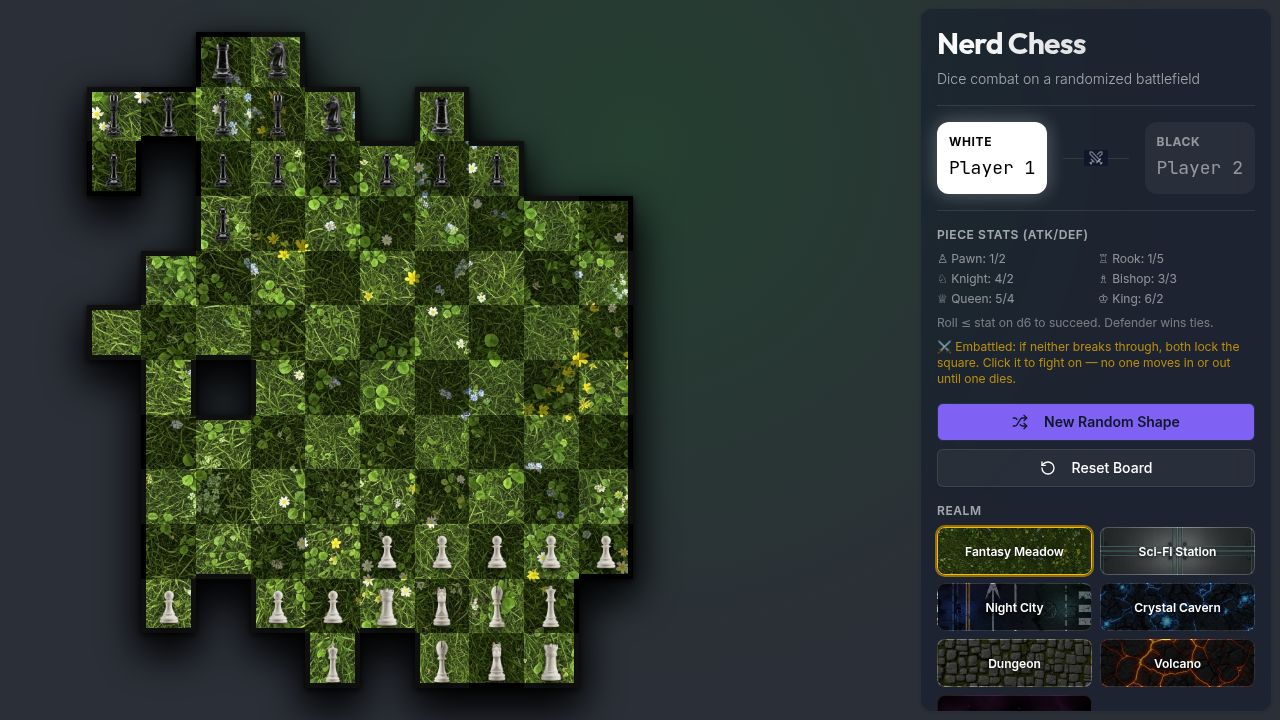
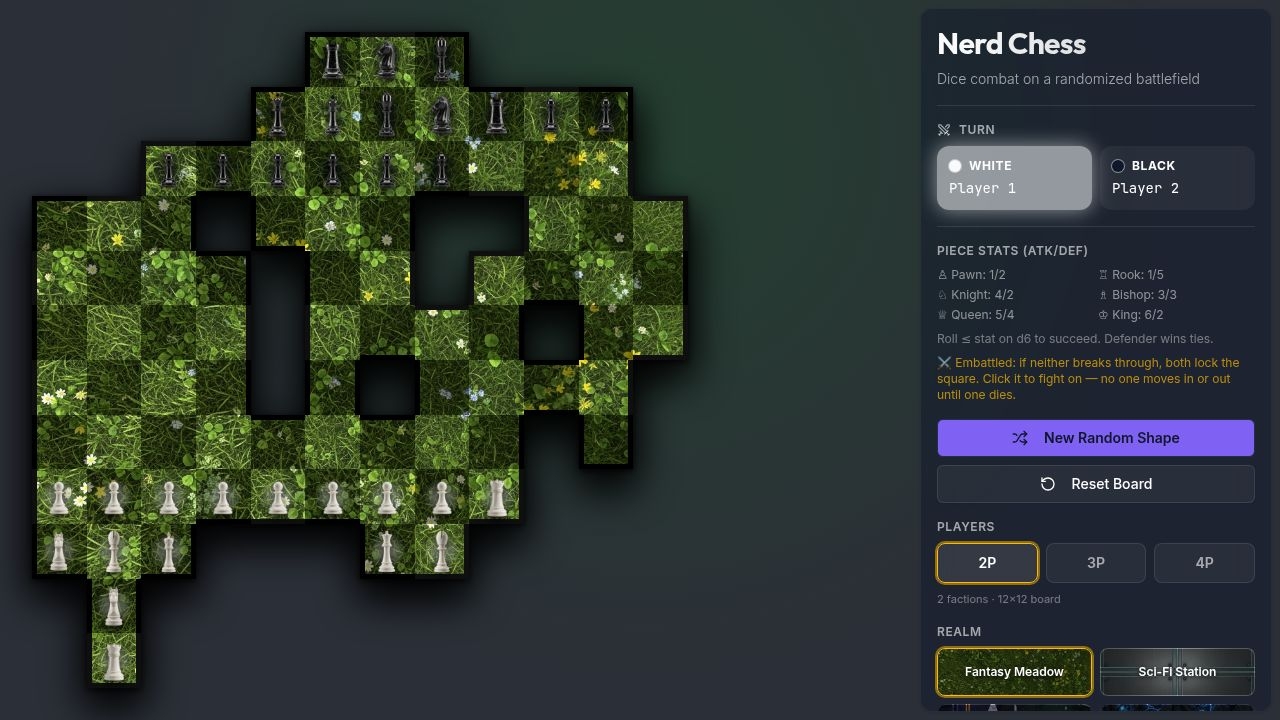
Add sound effects to Nerd Chess
Task #1: Add audio feedback so each key game event plays a distinct sound.

Implementation:
- New `client/src/lib/sounds.ts`: a lightweight Web Audio engine that
  synthesizes five short, distinct tones on demand (move, attack, embattled,
  death, win). No audio assets to load. Each play spins up fresh nodes so
  rapid/overlapping triggers never cut each other off. AudioContext is created
  lazily and resumed on first gesture. Mute state persists in localStorage
  under `nerd-chess-muted` (separate key from game state).
- Wired events in `client/src/pages/home.tsx`:
  - move: empty-square drop (handleDrop)
  - attack: combat start on both paths (handleDrop enemy branch +
    handleEmbattledClick), fired at start before the ~2s resolution delay
  - embattled / death: at combat resolution in applyCombatResult
    (embattled outcome -> embattled sound; capture or repelled_destroyed ->
    death sound)
  - win: at resolution when a winner is declared
- Mute toggle: speaker icon button in the legend panel header
  (data-testid button-mute-toggle), defaults to sound on, persists across
  reloads. Unmuting plays a brief cue.

Notes/decisions:
- Chose browser-synthesized tones over generated audio files for zero load
  cost (explicitly allowed by the task).
- No changes to game rules, combat math, or board generation.
- Typecheck passes; verified mute button renders in preview.

Replit-Task-Id: 98fa8c79-871c-4ca7-b825-2bc381ba8818

diff --git a/client/src/lib/sounds.ts b/client/src/lib/sounds.ts
@@ -1,0 +1,146 @@
+// Lightweight Web Audio sound engine for Nerd Chess.
+// Synthesizes short, distinct tones on demand — no audio assets to load.
+// Each play spins up fresh oscillator/gain nodes, so rapid repeated triggers
+// and overlapping events never cut each other off.
+
+export type SoundName = 'move' | 'attack' | 'embattled' | 'death' | 'win';
+
+const MUTE_KEY = 'nerd-chess-muted';
+
+let ctx: AudioContext | null = null;
+let muted = false;
+
+try {
+  muted = localStorage.getItem(MUTE_KEY) === 'true';
+} catch {
+  // ignore storage failures
+}
+
+function getCtx(): AudioContext | null {
+  if (typeof window === 'undefined') return null;
+  const AC = window.AudioContext || (window as any).webkitAudioContext;
+  if (!AC) return null;
+  if (!ctx) ctx = new AC();
+  // Browsers start the context suspended until a user gesture; resume on demand.
+  if (ctx.state === 'suspended') ctx.resume().catch(() => {});
+  return ctx;
+}
+
+export function isMuted(): boolean {
+  return muted;
+}
+
+export function setMuted(value: boolean): void {
+  muted = value;
+  try {
+    localStorage.setItem(MUTE_KEY, value ? 'true' : 'false');
+  } catch {
+    // ignore storage failures
+  }
+}
+
+export function toggleMuted(): boolean {
+  setMuted(!muted);
+  return muted;
+}
+
+// A single tone with an attack/decay envelope.
+interface Tone {
+  freq: number;        // starting frequency (Hz)
+  endFreq?: number;    // optional glide target
+  type?: OscillatorType;
+  start: number;       // seconds, relative to play time
+  duration: number;    // seconds
+  gain?: number;       // peak gain (0-1)
+}
+
+function playTone(audio: AudioContext, t: Tone): void {
+  const osc = audio.createOscillator();
+  const env = audio.createGain();
+  const now = audio.currentTime + t.start;
+  const peak = t.gain ?? 0.2;
+
+  osc.type = t.type ?? 'sine';
+  osc.frequency.setValueAtTime(t.freq, now);
+  if (t.endFreq != null) {
+    osc.frequency.exponentialRampToValueAtTime(Math.max(1, t.endFreq), now + t.duration);
+  }
+
+  env.gain.setValueAtTime(0.0001, now);
+  env.gain.exponentialRampToValueAtTime(peak, now + 0.01);
+  env.gain.exponentialRampToValueAtTime(0.0001, now + t.duration);
+
+  osc.connect(env);
+  env.connect(audio.destination);
+  osc.start(now);
+  osc.stop(now + t.duration + 0.02);
+}
+
+// A short burst of filtered noise — used for the "attack" swing.
+function playNoise(audio: AudioContext, start: number, duration: number, gain: number): void {
+  const now = audio.currentTime + start;
+  const frames = Math.floor(audio.sampleRate * duration);
+  const buffer = audio.createBuffer(1, frames, audio.sampleRate);
+  const data = buffer.getChannelData(0);
+  for (let i = 0; i < frames; i++) data[i] = Math.random() * 2 - 1;
+
+  const src = audio.createBufferSource();
+  src.buffer = buffer;
+
+  const filter = audio.createBiquadFilter();
+  filter.type = 'bandpass';
+  filter.frequency.setValueAtTime(1800, now);
+  filter.frequency.exponentialRampToValueAtTime(600, now + duration);
+  filter.Q.value = 0.8;
+
+  const env = audio.createGain();
+  env.gain.setValueAtTime(0.0001, now);
+  env.gain.exponentialRampToValueAtTime(gain, now + 0.008);
+  env.gain.exponentialRampToValueAtTime(0.0001, now + duration);
+
+  src.connect(filter);
+  filter.connect(env);
+  env.connect(audio.destination);
+  src.start(now);
+  src.stop(now + duration + 0.02);
+}
+
+const RECIPES: Record<SoundName, (audio: AudioContext) => void> = {
+  // Soft, quick wooden blip — a piece settling onto a square.
+  move: (audio) => {
+    playTone(audio, { freq: 440, endFreq: 660, type: 'triangle', start: 0, duration: 0.12, gain: 0.18 });
+  },
+  // Metallic swing: noise sweep plus a sharp ring.
+  attack: (audio) => {
+    playNoise(audio, 0, 0.18, 0.22);
+    playTone(audio, { freq: 880, endFreq: 320, type: 'sawtooth', start: 0, duration: 0.2, gain: 0.16 });
+  },
+  // Tense, unresolved two-note clash — neither side breaks through.
+  embattled: (audio) => {
+    playTone(audio, { freq: 330, type: 'square', start: 0, duration: 0.16, gain: 0.13 });
+    playTone(audio, { freq: 349, type: 'square', start: 0.04, duration: 0.22, gain: 0.13 });
+  },
+  // Descending, hollow fall — a piece is destroyed.
+  death: (audio) => {
+    playTone(audio, { freq: 400, endFreq: 90, type: 'sawtooth', start: 0, duration: 0.4, gain: 0.22 });
+    playTone(audio, { freq: 200, endFreq: 60, type: 'sine', start: 0.02, duration: 0.45, gain: 0.18 });
+  },
+  // Bright rising arpeggio — victory.
+  win: (audio) => {
+    const notes = [523.25, 659.25, 783.99, 1046.5]; // C5 E5 G5 C6
+    notes.forEach((freq, i) => {
+      playTone(audio, { freq, type: 'triangle', start: i * 0.12, duration: 0.28, gain: 0.2 });
+    });
+  },
+};
+
+export function playSound(name: SoundName): void {
+  if (muted) return;
+  const audio = getCtx();
+  if (!audio) return;
+  try {
+    RECIPES[name](audio);
+  } catch {
+    // never let audio errors break gameplay
+  }
+}

diff --git a/client/src/pages/home.tsx b/client/src/pages/home.tsx
@@ -1,8 +1,9 @@
 import { useState, useEffect, useCallback, useRef } from "react";
 import { Card } from "@/components/ui/card";
 import { Button } from "@/components/ui/button";
-import { RotateCcw, Swords, Shuffle, Dice1, Dice2, Dice3, Dice4, Dice5, Dice6 } from "lucide-react";
+import { RotateCcw, Swords, Shuffle, Volume2, VolumeX, Dice1, Dice2, Dice3, Dice4, Dice5, Dice6 } from "lucide-react";
 import { toast } from "@/hooks/use-toast";
+import { playSound, isMuted, toggleMuted } from "@/lib/sounds";
 import { Tooltip, TooltipContent, TooltipTrigger } from "@/components/ui/tooltip";
 import meadowTile from "@assets/generated_images/tile_meadow.png";
 import scifiTile from "@assets/generated_images/tile_scifi.png";
@@ -429,6 +430,7 @@ export default function Home() {
   const [numPlayers, setNumPlayers] = useState<number>(initState.numPlayers);
   const [theme, setTheme] = useState<string>(initState.theme);
   const [pieceSet, setPieceSet] = useState<string>(initState.pieceSet);
+  const [muted, setMuted] = useState<boolean>(() => isMuted());
   const combatTimeoutRef = useRef<ReturnType<typeof setTimeout> | null>(null);
 
   // Always-fresh snapshots for use inside delayed combat callbacks
@@ -573,11 +575,20 @@ export default function Home() {
       }
     }
 
+    // Combat-outcome audio: a kill (defender captured or attacker destroyed)
+    // plays "death", a stalemate plays the distinct "embattled" sound.
+    if (result.outcome === 'embattled') {
+      playSound('embattled');
+    } else {
+      playSound('death');
+    }
+
     // Decide victory & next turn from the post-combat board.
     const alive = colorsWithKing(newBoard);
     if (alive.size <= 1) {
       // Last faction with a King standing wins (fallback to the attacker if a tie somehow occurs).
       setWinner(alive.size === 1 ? Array.from(alive)[0] : attackerColor);
+      playSound('win');
     } else {
       setCurrentTurn(nextActiveColor(attackerColor, newBoard, numPlayersRef.current));
     }
@@ -651,6 +662,7 @@ export default function Home() {
     const enemyPiece = targetPieces.find(p => pieceColor(p) !== pieceColor(piece));
 
     if (enemyPiece) {
+      playSound('attack');
       setIsAnimating(true);
       const result = resolveCombat(piece, enemyPiece, fromSquare, targetSquare);
       setCombatResult(result);
@@ -659,6 +671,7 @@ export default function Home() {
         applyCombatResult(result);
       }, 2000);
     } else {
+      playSound('move');
       setBoard(prev => {
         const newBoard = { ...prev };
 
@@ -696,6 +709,7 @@ export default function Home() {
     const defender = pieces.find(p => pieceColor(p) !== currentTurn);
     if (!attacker || !defender) return;
 
+    playSound('attack');
     setIsAnimating(true);
     const result = resolveCombat(attacker, defender, square, square);
     setCombatResult(result);
@@ -757,6 +771,12 @@ export default function Home() {
     setPieceSet(id);
     const s = PIECE_SETS.find(x => x.id === id);
     toast({ title: s ? s.label : 'Pieces', description: 'Army style updated.' });
+  };
+
+  const handleToggleMute = () => {
+    const nowMuted = toggleMuted();
+    setMuted(nowMuted);
+    if (!nowMuted) playSound('move'); // brief cue that sound is back on
   };
 
   const squareSize = boardWidth / gridSize;
@@ -877,9 +897,22 @@ export default function Home() {
         <div className="fixed top-2 right-2 z-40 w-[22rem]">
           <Card className="glass-card p-4 space-y-4 text-white border-white/10 max-h-[calc(100vh-1rem)] overflow-y-auto">
             <div className="space-y-2">
-              <h1 className="text-3xl font-display font-bold text-transparent bg-clip-text bg-gradient-to-r from-white to-white/70">
-                Nerd Chess
-              </h1>
+              <div className="flex items-start justify-between gap-2">
+                <h1 className="text-3xl font-display font-bold text-transparent bg-clip-text bg-gradient-to-r from-white to-white/70">
+                  Nerd Chess
+                </h1>
+                <button
+                  type="button"
+                  onClick={handleToggleMute}
+                  title={muted ? 'Unmute sound effects' : 'Mute sound effects'}
+                  aria-label={muted ? 'Unmute sound effects' : 'Mute sound effects'}
+                  aria-pressed={muted}
+                  data-testid="button-mute-toggle"
+                  className="shrink-0 mt-1 p-2 rounded-lg border border-white/10 bg-white/5 text-white/70 hover:bg-white/10 hover:text-white transition-all"
+                >
+                  {muted ? <VolumeX className="w-4 h-4" /> : <Volume2 className="w-4 h-4" />}
+                </button>
+              </div>
               <p className="text-white/60 font-light text-sm">
                 Dice combat on a randomized battlefield
               </p>
